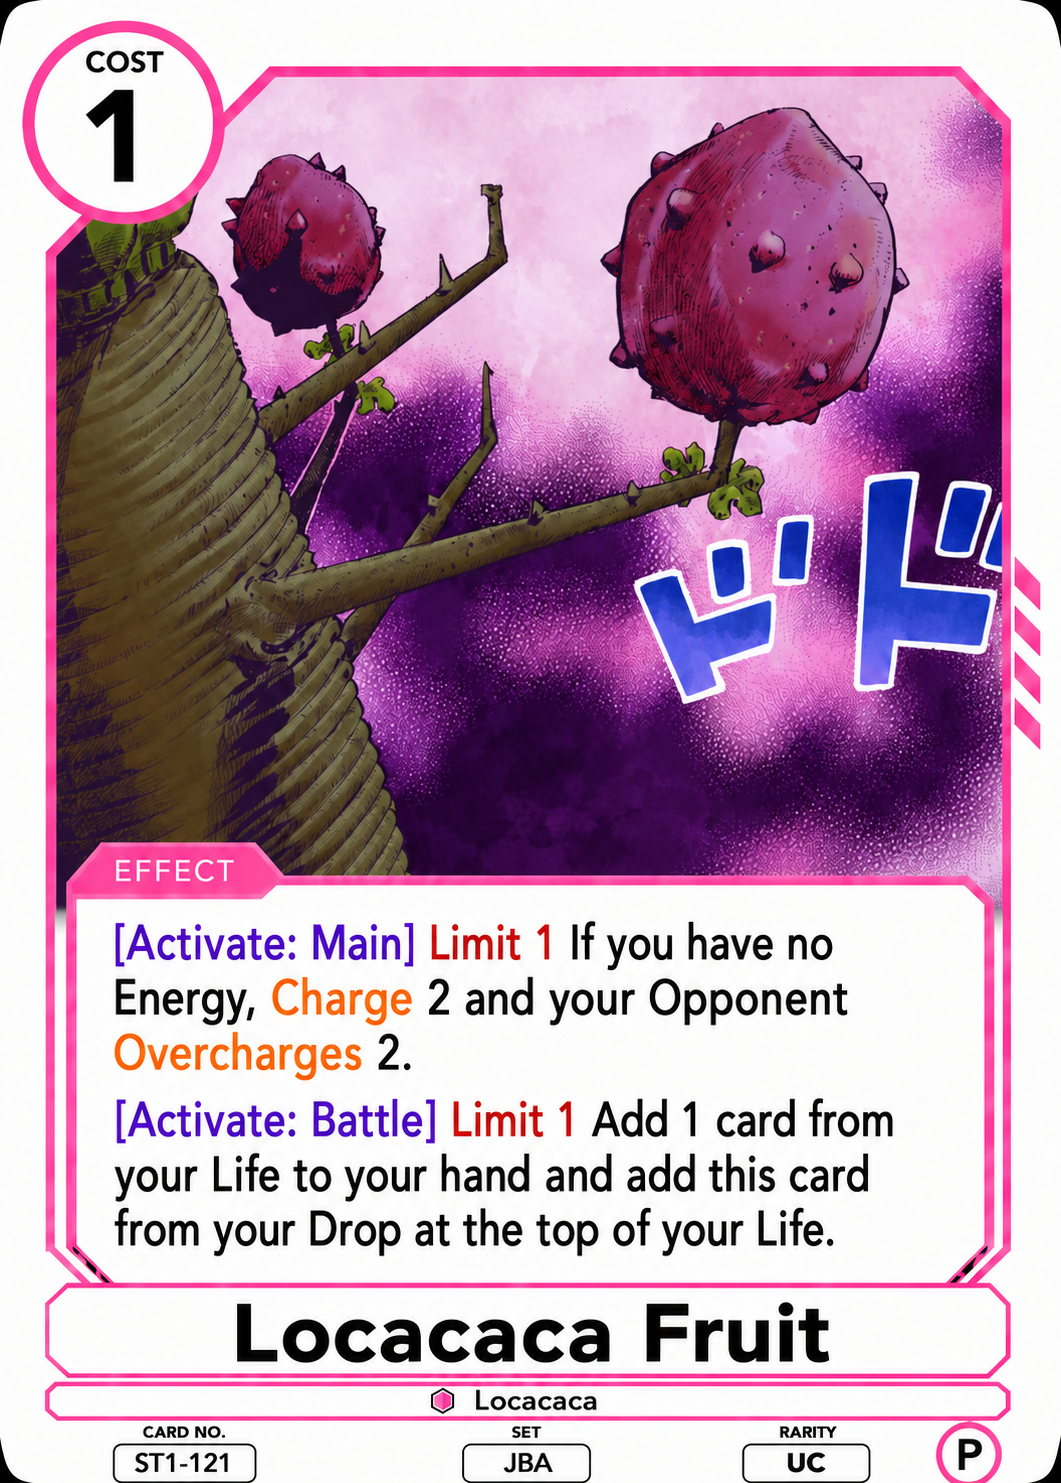
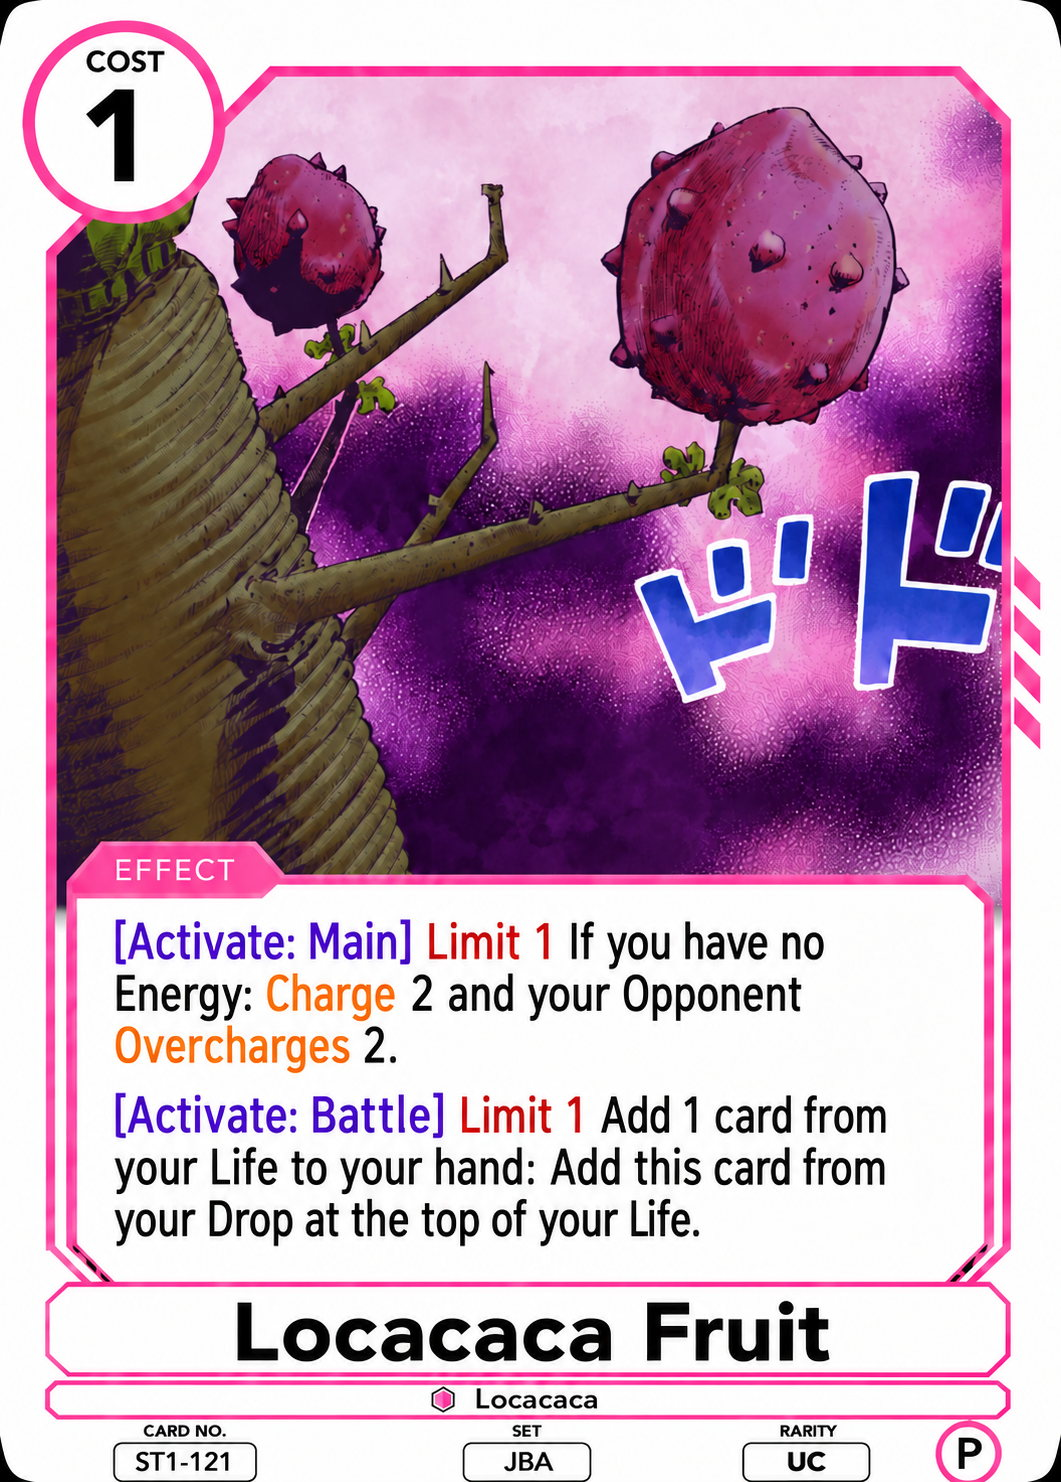
Refresh four ST1 JBA Action prints and effect text

diff --git a/card-text-data.js b/card-text-data.js
@@ -2772,8 +2772,8 @@ window.SJTCG_CARD_TEXT = {
     "set": "JBA",
     "rarity": "UC",
     "bottom_right_circle": "P",
-    "effect": "[Activate: Main] Limit 1 If you have no Energy, Charge 2 and your Opponent Overcharges 2.\n[Activate: Battle] Limit 1 Add 1 card from your Life to your hand and add this card from your Drop at the top of your Life.",
-    "effect_html": "<span class=\"kw kw-purple\" title=\"Timing window\">[Activate: Main]</span> <span class=\"kw kw-red\" title=\"Limit X\">Limit 1</span> If you have no Energy, <span class=\"kw kw-orange\" title=\"Charge\">Charge</span> 2 and your Opponent <span class=\"kw kw-orange\" title=\"Overcharges\">Overcharges</span> 2.<br><span class=\"kw kw-purple\" title=\"Timing window\">[Activate: Battle]</span> <span class=\"kw kw-red\" title=\"Limit X\">Limit 1</span> Add 1 card from your Life to your hand and add this card from your Drop at the top of your Life.",
+    "effect": "[Activate: Main] Limit 1 If you have no Energy: Charge 2 and your Opponent Overcharges 2.\n[Activate: Battle] Limit 1 Add 1 card from your Life to your hand: Add this card from your Drop at the top of your Life.",
+    "effect_html": "<span class=\"kw kw-purple\" title=\"Timing window\">[Activate: Main]</span> <span class=\"kw kw-red\" title=\"Limit X\">Limit 1</span> If you have no Energy: <span class=\"kw kw-orange\" title=\"Charge\">Charge</span> 2 and your Opponent <span class=\"kw kw-orange\" title=\"Overcharges\">Overcharges</span> 2.<br><span class=\"kw kw-purple\" title=\"Timing window\">[Activate: Battle]</span> <span class=\"kw kw-red\" title=\"Limit X\">Limit 1</span> Add 1 card from your Life to your hand: Add this card from your Drop at the top of your Life.",
     "notes": "",
     "transcription_status": "verified",
     "release": "ST1",
@@ -2795,8 +2795,8 @@ window.SJTCG_CARD_TEXT = {
     "set": "JBA",
     "rarity": "UC",
     "bottom_right_circle": "P",
-    "effect": "Clash [Opponent's Attack] Give your Leader +1000 Power for the battle; look at the top 3 cards of your Deck and add up to 1 card with \"Stand User\" in its Traits to your hand. Then, shuffle your Deck.",
-    "effect_html": "<span class=\"kw kw-green\" title=\"Clash\">Clash</span> <span class=\"kw kw-purple\" title=\"Timing window\">[Opponent&#39;s Attack]</span> Give your Leader +1000 Power for the battle; look at the top 3 cards of your Deck and add up to 1 card with &quot;Stand User&quot; in its Traits to your hand. Then, shuffle your Deck.",
+    "effect": "Clash [Opponent's Attack] Give your Leader +1000 Power for the battle; look at the top 3 cards of your Deck and add up to 1 card with the \"Stand User\" Trait to your hand. Then, shuffle your Deck.",
+    "effect_html": "<span class=\"kw kw-green\" title=\"Clash\">Clash</span> <span class=\"kw kw-purple\" title=\"Timing window\">[Opponent&#x27;s Attack]</span> Give your Leader +1000 Power for the battle; look at the top 3 cards of your Deck and add up to 1 card with the &quot;Stand User&quot; Trait to your hand. Then, shuffle your Deck.",
     "notes": "",
     "transcription_status": "verified",
     "release": "ST1",
@@ -2841,8 +2841,8 @@ window.SJTCG_CARD_TEXT = {
     "set": "JBA",
     "rarity": "UC",
     "bottom_right_circle": "P",
-    "effect": "Clash [Opponent's Play] Place 1 card from your hand in your Drop, Overcharge 2 and you can't Overcharge or activate Clash skills for the turn.",
-    "effect_html": "<span class=\"kw kw-green\" title=\"Clash\">Clash</span> <span class=\"kw kw-purple\" title=\"Timing window\">[Opponent&#x27;s Play]</span> Place 1 card from your hand in your Drop, <span class=\"kw kw-orange\" title=\"Overcharge\">Overcharge</span> 2 and you can&#x27;t <span class=\"kw kw-orange\" title=\"Overcharge\">Overcharge</span> or activate <span class=\"kw kw-green\" title=\"Clash\">Clash</span> skills for the turn.",
+    "effect": "Clash [Opponent's Play] Place 1 card from your hand in your Drop: Overcharge 2 and you can't Overcharge or activate Clash [Opponent's Play] skills for the turn.",
+    "effect_html": "<span class=\"kw kw-green\" title=\"Clash\">Clash</span> <span class=\"kw kw-purple\" title=\"Timing window\">[Opponent&#x27;s Play]</span> Place 1 card from your hand in your Drop: <span class=\"kw kw-orange\" title=\"Overcharge\">Overcharge</span> 2 and you can&#x27;t <span class=\"kw kw-orange\" title=\"Overcharge\">Overcharge</span> or activate <span class=\"kw kw-green\" title=\"Clash\">Clash</span> <span class=\"kw kw-purple\" title=\"Timing window\">[Opponent&#x27;s Play]</span> skills for the turn.",
     "notes": "",
     "transcription_status": "verified",
     "release": "ST1",
@@ -2864,8 +2864,8 @@ window.SJTCG_CARD_TEXT = {
     "set": "JBA",
     "rarity": "UC",
     "bottom_right_circle": "P",
-    "effect": "Clash [Opponent's Attack] K.O. up to 1 of your Opponent's Rested Units with a Cost of 4 or less.",
-    "effect_html": "<span class=\"kw kw-green\" title=\"Clash\">Clash</span> <span class=\"kw kw-purple\" title=\"Timing window\">[Opponent&#39;s Attack]</span> K.O. up to 1 of your Opponent&#39;s Rested Units with a Cost of 4 or less.",
+    "effect": "Clash [Opponent's Attack] Choose up to 1 of your Opponent's Rested Units with a Cost of 4 or less and place it in its owner's Drop.",
+    "effect_html": "<span class=\"kw kw-green\" title=\"Clash\">Clash</span> <span class=\"kw kw-purple\" title=\"Timing window\">[Opponent&#x27;s Attack]</span> Choose up to 1 of your Opponent&#x27;s Rested Units with a Cost of 4 or less and place it in its owner&#x27;s Drop.",
     "notes": "",
     "transcription_status": "verified",
     "release": "ST1",

diff --git a/cards-data.js b/cards-data.js
@@ -1658,7 +1658,7 @@ window.SJTCG_CARD_DATA = [
     "cardType": "Main Deck",
     "deckLimit": 4,
     "orientation": "Portrait",
-    "imageVersion": "e4d40b34c998"
+    "imageVersion": "6f3f14f33bc3"
   },
   {
     "number": "ST1-122",
@@ -1670,7 +1670,7 @@ window.SJTCG_CARD_DATA = [
     "cardType": "Main Deck",
     "deckLimit": 4,
     "orientation": "Portrait",
-    "imageVersion": "7d75cc5acf9b"
+    "imageVersion": "fc4e745fec15"
   },
   {
     "number": "ST1-123",
@@ -1694,7 +1694,7 @@ window.SJTCG_CARD_DATA = [
     "cardType": "Main Deck",
     "deckLimit": 4,
     "orientation": "Portrait",
-    "imageVersion": "5322b4b21a10"
+    "imageVersion": "b24de101ca2e"
   },
   {
     "number": "ST1-125",
@@ -1706,7 +1706,7 @@ window.SJTCG_CARD_DATA = [
     "cardType": "Main Deck",
     "deckLimit": 4,
     "orientation": "Portrait",
-    "imageVersion": "d88319f00c28"
+    "imageVersion": "b939c2df25d8"
   },
   {
     "number": "ST1-126",

diff --git a/index.html b/index.html
@@ -214,8 +214,8 @@
     </section>
   </div>
 
-  <script src="cards-data.js?v=52912f66d50e"></script>
-  <script src="card-text-data.js?v=b1810ebf6b45"></script>
+  <script src="cards-data.js?v=f06a66c4bc68"></script>
+  <script src="card-text-data.js?v=47bb39bd9cc2"></script>
   <script src="app.js?v=20261009-reprint-search-2"></script>
 </body>
 </html>
